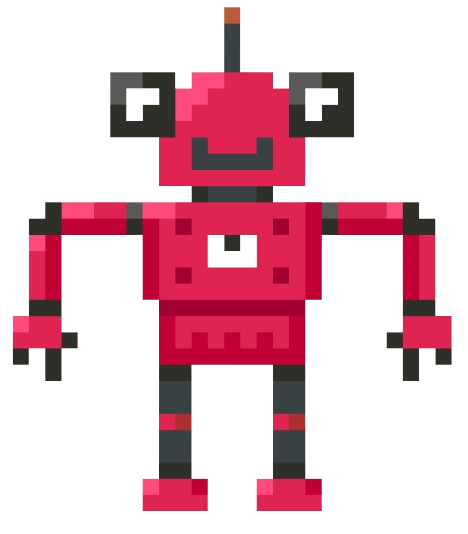
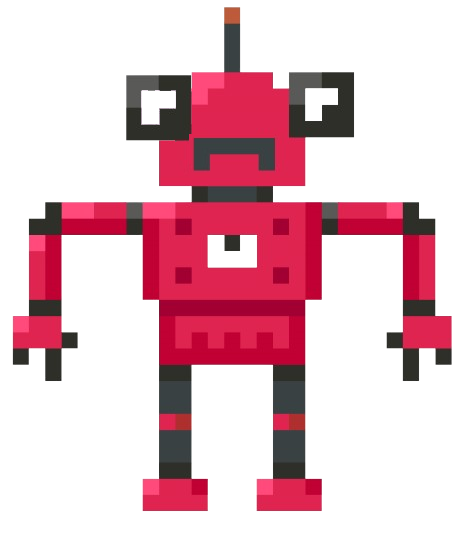
mad mad

Changed region(s): [[0.2094, 0.1199, 0.5983, 0.3296]]

diff --git a/sketch.js b/sketch.js
@@ -27,7 +27,7 @@ let yellowRobot;
 let music;
 
 //bg code
-let bgSpeedX = 0.2;
+let bgSpeedX = 0.1;
 let bgPosX1 = 0;
 let bgPosX2;
 
@@ -67,6 +67,10 @@ const cy2 = 100; // Initial y position for the second rocket
 
 let redRocketLanded = false;
 let yellowRocketLanded = false;
+let redRocketLaunch = false;
+let yellowRocketLaunch = false;
+let redRobotX = 300;
+let robotHappy = false;
 
 // Elliptical path parameters for the second rocket
 const ellipseRadiusX = 150;
@@ -117,6 +121,8 @@ function preload() {
   rocketImageRed = loadImage('./assets/space-ship-pink.png');
   newImageYellow = loadImage('./assets/robot-yellow.png'); // Load the new image for the yellow rocket
   newImageRed = loadImage('./assets/robot-red.png'); // Load the new image for the red rocket
+  robotRedHappy = loadImage('./assets/robot-red-happy.png'); // Load the new image for the red rocket
+
 }
 
 function drawAxes() {
@@ -284,15 +290,16 @@ function drawRocketLandingYellow() {
     imageMode(CENTER);
     image(rocketImageYellow, 0, 0, 200, 100); // Adjust size to fit your rocket image
     pop();
-  }else{
+  } else {
     drawRocketLaunchYellow();
   }
 }
 
-function drawRocketLaunchYellow(){
+function drawRocketLaunchYellow() {
   // image(yellowShip, rocketX, rocketY, 50, 50);
-  image(newImageYellow, rocketX + 75, rocketY - 40, 200, 150);
+  image(newImageYellow, rocketX + 75, 560, 200, 150);
   drawRotatedImageYellow(rocketImageYellow, rocketX, rocketY, 200, 100); // Example usage
+  rocketY -= descentSpeed;
 }
 
 function drawRotatedImageYellow(img, x, y, w, h) {
@@ -327,6 +334,8 @@ function drawRocketLandingRed() {
       if (rocketY2 > 600) {
         rocketY2 = 600;
         redRocketLanded = true; // Mark the red rocket as landed
+
+
       }
     }
   }
@@ -341,12 +350,13 @@ function drawRocketLandingRed() {
     rotate(HALF_PI); // Rotate the image to be nose-up for descent
   }
   imageMode(CENTER);
-  image(rocketImageRed, 0, 0, 180, 130); // Adjust size to fit your red rocket image
+  image(rocketImageRed, 0, 0, 200, 130); // Adjust size to fit your red rocket image
   pop();
 
   // Display the new image next to the existing rocket image
   if (redRocketLanded) {
     drawRocketLaunchRed();
+    redRocketLaunch = true;
   }
 }
 
@@ -359,11 +369,25 @@ function drawRotatedImageRed(img, x, y, w, h) {
   pop();
 }
 
-function drawRocketLaunchRed(){
-  // image(yellowShip, rocketX, rocketY, 50, 50);
-  image(newImageRed, rocketX2 + 75, rocketY2 - 40, 200, 150);
-  drawRotatedImageRed(rocketImageRed, rocketX2, rocketY2, 200, 100); // Example usage
-  rocketY2 -= descentSpeed
+function drawRocketLaunchRed() {
+  if(!robotHappy){
+  image(newImageRed, redRobotX, 550, 200, 150);
+  drawRotatedImageRed(rocketImageRed, redRobotX, rocketY2, 200, 130); // Example usage
+  setTimeout(() => {
+    rocketY2 -= descentSpeed;
+    redRobotX += descentSpeed
+
+  }, 1000)
+  if (redRobotX > 600 ) {
+    redRobotX = 600;
+    // robotHappy = true;
+    // if(redRobotX = 600){
+    //   drawHappyRobot();
+    // }
+  }}
+}
+function drawHappyRobot(){
+  image(robotRedHappy, redRobotX, 550, 200, 150);
 }
 
 function draw() {
@@ -373,8 +397,7 @@ function draw() {
     // startAnimation();
     drawBG();
     moveBG();
-    drawRedRobot();
-    // drawDialog();
+    // drawRedRobot();
     moveTrain();
     drawRocketLandingYellow();
     drawRocketLandingRed();
